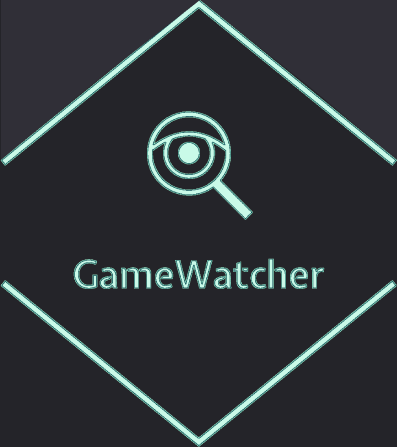
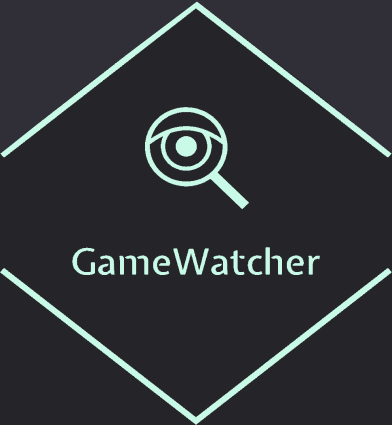
RegisterPage design fait

diff --git a/Appli/GameWatcher/Navigation/Pages/LoginRegisterPage/RegisterPage/RegisterPage.jsx b/Appli/GameWatcher/Navigation/Pages/LoginRegisterPage/RegisterPage/RegisterPage.jsx
@@ -1,5 +1,5 @@
 import React, {useState} from 'react';
-import {StyleSheet, Text, TextInput, View, Pressable} from 'react-native';
+import {StyleSheet, Text, TextInput, View, Pressable, Image} from 'react-native';
 import {auth} from '../../../../firebaseConfig';
 import {createUserWithEmailAndPassword} from "firebase/auth";
 
@@ -13,6 +13,9 @@ const RegisterPage = ({navigation}) => {
     const [emailError, setEmailError] = useState('');
     const [passwordError, setPasswordError] = useState('');
     const [confirmPasswordError, setConfirmPasswordError] = useState('');
+
+    const [focusedField, setFocusedField] = useState(null);
+
 
     const handleRegister = () => {
         // Reset all errors
@@ -71,48 +74,99 @@ const RegisterPage = ({navigation}) => {
         });
     }
 
+    const handleFocus = (field) => {
+        switch (field) {
+            case 'username':
+                setUsernameError('');
+                break;
+            case 'email':
+                setEmailError('');
+                break;
+            case 'password':
+                setPasswordError('');
+                break;
+            case 'confirmPassword':
+                setConfirmPasswordError('');
+                break;
+            default:
+                break;
+        }
+        setFocusedField(field);
+    };
+
+    const handleBlur = () => {
+        setFocusedField(null);
+    };
+
     return (
         <View style={styles.loginPage}>
+            <View style={styles.logoContainer}>
+                <Image source={require('../../../../assets/GameWatcherHeader.png')} style={styles.logo} />
+            </View>
             <Text style={styles.loginTitle}>Inscription</Text>
-            <TextInput
-                style={[styles.loginInput, usernameError && styles.loginInputError]}
-                onChangeText={setUsername}
-                value={username}
-                placeholder="Nom d'utilisateur"
-            />
+            <View style={[styles.loginInputContainer, {borderColor: focusedField === 'username' ? '#4EF5B9' : '#C9FAE8'}, usernameError && styles.loginInputError]}>
+                <TextInput
+                    style={styles.loginInput}
+                    onChangeText={setUsername}
+                    onFocus={() => handleFocus('username')}
+                    onBlur={handleBlur}
+                    value={username}
+                    placeholder="Nom d'utilisateur"
+                    placeholderTextColor="#7E8A84"
+                    selectionColor="#4EF5B9"
+                />
+            </View>
             <Text style={styles.loginError}>{usernameError}</Text>
-            <TextInput
-                style={[styles.loginInput, emailError && styles.loginInputError]}
-                onChangeText={setEmail}
-                value={email}
-                placeholder="Email"
-            />
+            <View style={[styles.loginInputContainer, {borderColor: focusedField === 'email' ? '#4EF5B9' : '#C9FAE8'}, emailError && styles.loginInputError]}>
+                <TextInput
+                    style={styles.loginInput}
+                    onChangeText={setEmail}
+                    onFocus={() => handleFocus('email')}
+                    onBlur={handleBlur}
+                    value={email}
+                    placeholder="Email"
+                    placeholderTextColor="#7E8A84"
+                    selectionColor="#4EF5B9"
+                />
+            </View>
             <Text style={styles.loginError}>{emailError}</Text>
-            <TextInput
-                style={[styles.loginInput, passwordError && styles.loginInputError]}
-                onChangeText={setPassword}
-                secureTextEntry={true}
-                value={password}
-                placeholder="Mot de passe"
-            />
+            <View style={[styles.loginInputContainer, {borderColor: focusedField === 'password' ? '#4EF5B9' : '#C9FAE8'}, passwordError && styles.loginInputError]}>
+                <TextInput
+                    style={styles.loginInput}
+                    onChangeText={setPassword}
+                    onFocus={() => handleFocus('password')}
+                    onBlur={handleBlur}
+                    secureTextEntry={true}
+                    value={password}
+                    placeholder="Mot de passe"
+                    placeholderTextColor="#7E8A84"
+                    selectionColor="#4EF5B9"
+                />
+            </View>
             <Text style={styles.loginError}>{passwordError}</Text>
-            <TextInput
-                style={[styles.loginInput, confirmPasswordError && styles.loginInputError]}
-                onChangeText={setConfirmPassword}
-                secureTextEntry={true}
-                value={confirmPassword}
-                placeholder="Confirmer le mot de passe"
-            />
+            <View style={[styles.loginInputContainer, {borderColor: focusedField === 'confirmPassword' ? '#4EF5B9' : '#C9FAE8'}, confirmPasswordError && styles.loginInputError]}>
+                <TextInput
+                    style={styles.loginInput}
+                    onChangeText={setConfirmPassword}
+                    onFocus={() => handleFocus('confirmPassword')}
+                    onBlur={handleBlur}
+                    secureTextEntry={true}
+                    value={confirmPassword}
+                    placeholder="Confirmer le mot de passe"
+                    placeholderTextColor="#7E8A84"
+                    selectionColor="#4EF5B9"
+                />
+            </View>
             <Text style={styles.loginError}>{confirmPasswordError}</Text>
-            <Pressable style={styles.loginButton} onPress={handleRegister}>
-                <Text>Se connecter</Text>
+            <Pressable style={[styles.loginButton, styles.shadow]} onPress={handleRegister}>
+                <Text>S'inscrire</Text>
             </Pressable>
             <View style={styles.loginBottomContainer}>
                 <Pressable style={styles.loginBottomButton} onPress={goToLogin}>
-                    <Text>Creer un compte</Text>
+                    <Text style={styles.linkButton}>Déjà un compte ? Se connecter</Text>
                 </Pressable>
                 <Pressable style={styles.loginBottomButton} onPress={goToHome}>
-                    <Text>Continuer en tant qu'invité</Text>
+                    <Text style={styles.linkButton}>Continuer en tant qu'invité</Text>
                 </Pressable>
             </View>
         </View>
@@ -121,21 +175,38 @@ const RegisterPage = ({navigation}) => {
 
 const styles = StyleSheet.create({
     loginPage: {
-        paddingTop: 40,
         alignItems: 'center',
         height: '100%',
         width: '100%',
+        backgroundColor: '#302F37',
+    },
+    logoContainer: {
+        width: '100%',
+        height: '40%',
+        marginBottom: 20,
+    },
+    logo: {
+        width: '100%',
+        height: '100%',
+        resizeMode: 'cover',
     },
     loginTitle: {
-        margin: 50,
+        fontSize: 30,
+        fontWeight: 'bold',
+        color: '#C9FAE8',
+        marginBottom: 20,
+    },
+    loginInputContainer: {
+        width: '80%',
+        height: 40,
+        marginTop: 10,
+        borderWidth: 2,
+        borderRadius: 10,
+        padding: 10,
     },
     loginInput: {
-        height: 40,
-        width: '80%',
-        margin: 12,
-        borderWidth: 1,
-        padding: 10,
-        borderRadius: 15,
+        color: '#C9FAE8',
+        fontSize: 16,
     },
     loginInputError: {
         borderColor: 'red',
@@ -144,25 +215,34 @@ const styles = StyleSheet.create({
         color: 'red',
         fontSize: 12,
         height: 12,
-        marginTop: -10,
+        marginTop: 5,
     },
     loginButton: {
         alignItems: 'center',
-        justifyContent: 'center',
-        paddingVertical: 12,
-        paddingHorizontal: 32,
-        borderRadius: 4,
-        elevation: 3,
-        backgroundColor: 'red',
-        margin: 50,
+        backgroundColor: '#4EF5B9',
+        marginTop: 10,
+        paddingVertical: 10,
+        paddingHorizontal: 30,
+        borderRadius: 10,
     },
     loginBottomContainer: {
         alignItems: 'center',
-        position: 'absolute',
-        bottom: 75,
+        marginTop: 20,
     },
     loginBottomButton: {
         padding: 5,
+    },
+    linkButton: {
+        color: "#C9FAE8",
+    },
+    shadow: {
+        shadowColor: "#4EF5B9",
+        shadowOffset: {
+            width: 0,
+            height: 1,
+        },
+        shadowOpacity: 0.3,
+        shadowRadius: 1,
     },
 });
 

diff --git a/Appli/GameWatcher/Navigation/Pages/LoginRegisterPage/LoginPage/LoginPage.jsx b/Appli/GameWatcher/Navigation/Pages/LoginRegisterPage/LoginPage/LoginPage.jsx
@@ -10,7 +10,7 @@ const LoginPage = ({navigation}) => {
     const [emailError, setEmailError] = useState('');
     const [passwordError, setPasswordError] = useState('');
 
-    const [borderColor, setBorderColor] = useState('#C9FAE8');
+    const [focusedField, setFocusedField] = useState(null);
 
 
     const handleLogin = () => {
@@ -46,14 +46,22 @@ const LoginPage = ({navigation}) => {
         }
     }
 
-    const handleFocus = () => {
-        setEmailError('');
-        setPasswordError('');
-        setBorderColor('#4EF5B9');
+    const handleFocus = (field) => {
+        switch (field) {
+            case 'email':
+                setEmailError('');
+                break;
+            case 'password':
+                setPasswordError('');
+                break;
+            default:
+                break;
+        }
+        setFocusedField(field);
     };
 
     const handleBlur = () => {
-        setBorderColor('#C9FAE8');
+        setFocusedField(null);
     };
 
     const goToRegister = () => navigation.navigate('Register');
@@ -67,12 +75,12 @@ const LoginPage = ({navigation}) => {
 
     return (
         <View style={styles.loginPage}>
-            <Text style={styles.loginTitle}>Sign In</Text>
-            <View style={[styles.loginInputContainer, styles.shadow ,{borderColor: borderColor}, emailError && styles.loginInputError]}>
+            <Text style={styles.loginTitle}>Connexion</Text>
+            <View style={[styles.loginInputContainer, {borderColor: focusedField === 'email' ? '#4EF5B9' : '#C9FAE8'}, emailError && styles.loginInputError]}>
                 <TextInput
                     style={styles.loginInput}
                     onChangeText={setEmail}
-                    onFocus={handleFocus}
+                    onFocus={() => handleFocus('email')}
                     onBlur={handleBlur}
                     value={email}
                     placeholder="Email"
@@ -81,11 +89,11 @@ const LoginPage = ({navigation}) => {
                 />
             </View>
             <Text style={styles.loginError}>{emailError}</Text>
-            <View style={[styles.loginInputContainer, styles.shadow ,{borderColor: borderColor}, passwordError && styles.loginInputError]}>
+            <View style={[styles.loginInputContainer, {borderColor: focusedField === 'password' ? '#4EF5B9' : '#C9FAE8'}, passwordError && styles.loginInputError]}>
                 <TextInput
                     style={styles.loginInput}
                     onChangeText={setPassword}
-                    onFocus={handleFocus}
+                    onFocus={() => handleFocus('password')}
                     onBlur={handleBlur}
                     secureTextEntry={true}
                     value={password}
